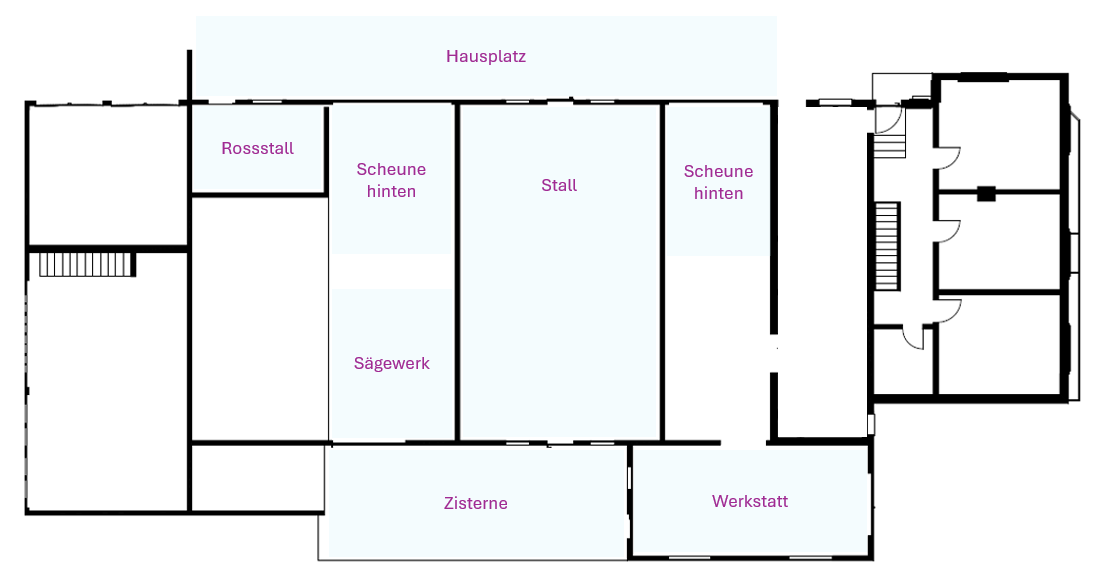
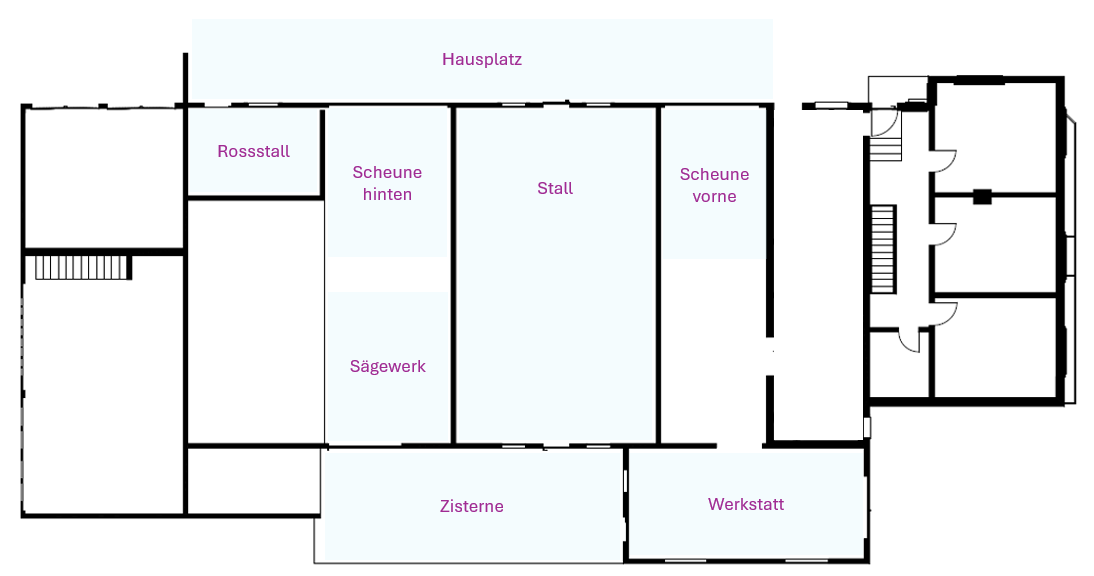
Add files via upload

diff --git a/beleuchtung/app.js b/beleuchtung/app.js
@@ -30,40 +30,19 @@ const DEFAULT_DEVICES_CONFIG = {
       enabled: true,
       graphic: {
         regions: [
-          { floor: "eg", ariaLabel: "Hausplatz", style: "left:17.8%; top:2.8%; width:52.7%; height:13.9%;" },
-          { floor: "og", ariaLabel: "Hausplatz", style: "left:18.1%; top:2.8%; width:52.7%; height:13.9%;" }
+          { floor: "eg", ariaLabel: "Hausplatz", style: "left:17.6%; top:3.3%; width:53.1%; height:13.9%;" },
+          { floor: "og", ariaLabel: "Hausplatz", style: "left:18.1%; top:2.8%; width:52.8%; height:13.8%;" }
         ]
       }
     },
     {
-      key: "zisterne",
-      name: "Licht Zisterne",
-      enabled: true,
-      graphic: {
-        regions: [
-          { floor: "eg", ariaLabel: "Zisterne", style: "left:29.8%; top:78.3%; width:26.7%; height:18.4%;" },
-          { floor: "og", ariaLabel: "Zisterne", style: "left:30.2%; top:78.1%; width:26.7%; height:18.3%;" }
-        ]
-      }
-    },
-    {
-      key: "stall",
-      name: "Licht Stall",
+      key: "rossstall",
+      name: "Licht Rossstall",
       enabled: true,
       controllable: false,
       graphic: {
         regions: [
-          { floor: "eg", ariaLabel: "Stall", style: "left:42.0%; top:18.6%; width:17.4%; height:57.4%;" }
-        ]
-      }
-    },
-    {
-      key: "scheune-vorne",
-      name: "Licht Scheune vorne",
-      enabled: true,
-      graphic: {
-        regions: [
-          { floor: "eg", ariaLabel: "Rossstall", style: "left:17.6%; top:18.4%; width:11.5%; height:14.4%;" }
+          { floor: "eg", ariaLabel: "Rossstall", style: "left:17.4%; top:18.9%; width:11.6%; height:14.4%;" }
         ]
       }
     },
@@ -73,8 +52,69 @@ const DEFAULT_DEVICES_CONFIG = {
       enabled: true,
       graphic: {
         regions: [
-          { floor: "eg", ariaLabel: "Scheune hinten", style: "left:30.1%; top:18.3%; width:10.8%; height:25.9%;" },
-          { floor: "eg", ariaLabel: "Scheune hinten", style: "left:60.5%; top:18.6%; width:9.3%; height:25.9%;" }
+          { floor: "eg", ariaLabel: "Scheune hinten", style: "left:30.0%; top:18.8%; width:10.9%; height:25.9%;" }
+        ]
+      }
+    },
+    {
+      key: "stall",
+      name: "Licht Stall",
+      enabled: true,
+      graphic: {
+        regions: [
+          { floor: "eg", ariaLabel: "Stall", style: "left:42.0%; top:19.1%; width:17.6%; height:57.3%;" }
+        ]
+      }
+    },
+    {
+      key: "scheune-vorne",
+      name: "Licht Scheune vorne",
+      enabled: true,
+      graphic: {
+        regions: [
+          { floor: "eg", ariaLabel: "Scheune vorne", style: "left:60.6%; top:19.1%; width:9.3%; height:25.9%;" }
+        ]
+      }
+    },
+    {
+      key: "saegewerk",
+      name: "Licht Sägewerk",
+      enabled: true,
+      controllable: false,
+      graphic: {
+        regions: [
+          { floor: "eg", ariaLabel: "Sägewerk", style: "left:30.0%; top:50.7%; width:11.0%; height:25.9%;" }
+        ]
+      }
+    },
+    {
+      key: "zisterne",
+      name: "Licht Zisterne",
+      enabled: true,
+      graphic: {
+        regions: [
+          { floor: "eg", ariaLabel: "Zisterne", style: "left:29.7%; top:78.6%; width:27.0%; height:18.6%;" },
+          { floor: "og", ariaLabel: "Zisterne", style: "left:30.2%; top:78.1%; width:26.8%; height:18.5%;" }
+        ]
+      }
+    },
+    {
+      key: "werkstatt",
+      name: "Licht Werkstatt",
+      enabled: true,
+      graphic: {
+        regions: [
+          { floor: "eg", ariaLabel: "Werkstatt", style: "left:57.6%; top:78.6%; width:21.3%; height:17.7%;" }
+        ]
+      }
+    },
+    {
+      key: "heustock-mitte",
+      name: "Licht Heustock mitte",
+      enabled: true,
+      graphic: {
+        regions: [
+          { floor: "og", ariaLabel: "Heustock mitte", style: "left:42.4%; top:18.8%; width:17.5%; height:57.0%;" }
         ]
       }
     },
@@ -85,27 +125,6 @@ const DEFAULT_DEVICES_CONFIG = {
       graphic: {
         regions: [
           { floor: "og", ariaLabel: "Heustock vorne", style: "left:71.0%; top:19.2%; width:8.3%; height:56.6%;" }
-        ]
-      }
-    },
-    {
-      key: "heustock-mitte",
-      name: "Licht Heustock mitte",
-      enabled: true,
-      graphic: {
-        regions: [
-          { floor: "eg", ariaLabel: "Saegewerk", style: "left:30.1%; top:50.3%; width:10.9%; height:25.9%;" },
-          { floor: "og", ariaLabel: "Heustock mitte", style: "left:42.4%; top:18.8%; width:17.5%; height:57.0%;" }
-        ]
-      }
-    },
-    {
-      key: "werkstatt",
-      name: "Licht Werkstatt",
-      enabled: true,
-      graphic: {
-        regions: [
-          { floor: "eg", ariaLabel: "Werkstatt", style: "left:57.5%; top:78.3%; width:21.0%; height:17.6%;" }
         ]
       }
     }

diff --git a/beleuchtung/grafik.html b/beleuchtung/grafik.html
@@ -255,6 +255,6 @@
     </section>
   </div>
 
-  <script src="app.js?v=20260328d"></script>
+  <script src="app.js?v=20260328e"></script>
 </body>
 </html>

diff --git a/beleuchtung/index.html b/beleuchtung/index.html
@@ -96,6 +96,6 @@
     </section>
   </div>
 
-  <script src="app.js?v=20260328d"></script>
+  <script src="app.js?v=20260328e"></script>
 </body>
 </html>
